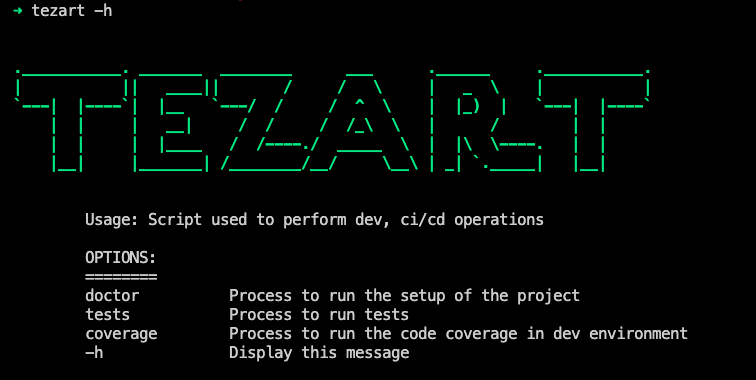
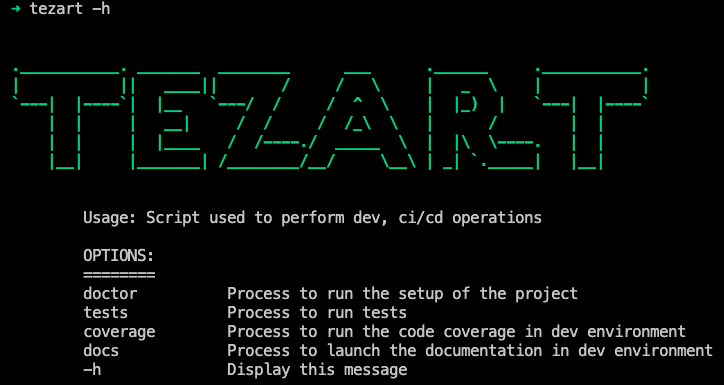
cli(docs): add documentation option in cli

diff --git a/docs/README.md b/docs/README.md
@@ -182,6 +182,16 @@ You can :
 
 [Pull Requests are welcome as well !](#feature-requests-and-bugs)  
 
+### Project versionning
+
+We follow the semantic versioning from [semver](semver.org). Given a version number MAJOR.MINOR.PATCH, increment the:
+
+- **MAJOR** version when you make incompatible API changes,
+- **MINOR** version when you add functionality in a backwards compatible manner, and
+- **PATCH** version when you make backwards compatible bug fixes. 
+
+Read [dart package versioning](https://dart.dev/tools/pub/versioning) to learn more.
+
 ### Setup your development environment
 
 **The following setup only work for Mac and Linux**
@@ -231,6 +241,18 @@ You can add an alias like this `alias tezart='./tezart'` to avoid  calling the c
 Following is a sample of a correct setup :
 
 <img src="img/a-sample-correct-setup.png?raw=true"></img>
+
+
+### Edit this documentation
+
+The following documentation is provided in `tezart/docs/` directory and you call the following command to serve it 
+locally : 
+
+```bash
+./tezart docs
+```
+
+<img src="img/a-sample-tezart-docs.png?raw=true"></img>
 
 ### Utility functions
 
